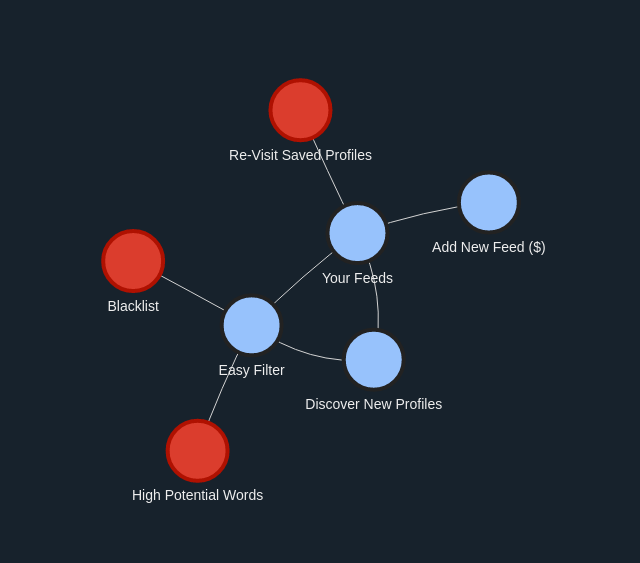
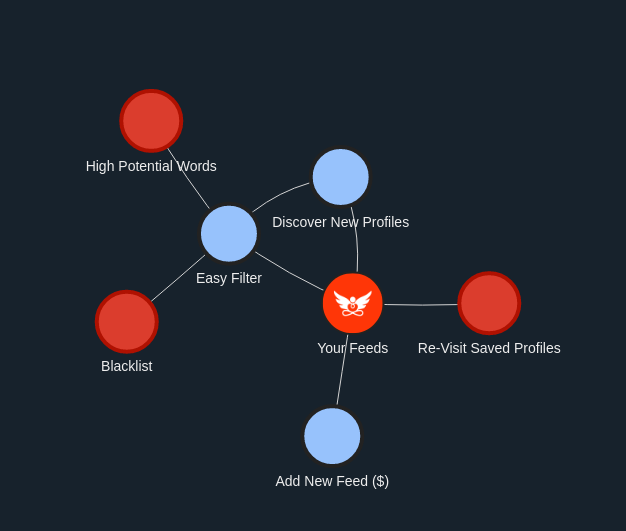
updated docs

diff --git a/index.html b/index.html
@@ -12,7 +12,7 @@
     var network = null;
 
     /* SUPERSCRIPT: Edit This */
-	addGoodNode("Your Feeds",'icons/consciousness.png');
+	addGoodNode("Your Feeds",'img/consciousness.png');
     addGoodNode("Discover New Profiles");
 	addBadNode("Re-Visit Saved Profiles");
 
@@ -56,9 +56,6 @@
 
 
 	function addGoodNode(label,img='') {
-      		if(img===''){
-             	img = 'icons/house.jpeg'; 
-            }
       		let id = nodes.length+1;
       		node_ids[label] = id;
       		nodes.push({ id: id, label:label, shape: "circularImage", image: img});

diff --git a/README.md b/README.md
@@ -17,6 +17,7 @@ Edit values in ./index.html between /* SUPERSCRIPT */
 ```
 addGoodNode("Add New Feed ($)"); // add good node
 addBadNode('High Potential Words'); // add red node
+addGoodNode("Your Feeds",'img/consciousness.png'); // add node with custom image
 addEdge('Easy Filter','High Potential Words'); // add single line
 addEdge("Discover New Profiles",["Your Feeds","Easy Filter"]); // add multiple lines
 ```
